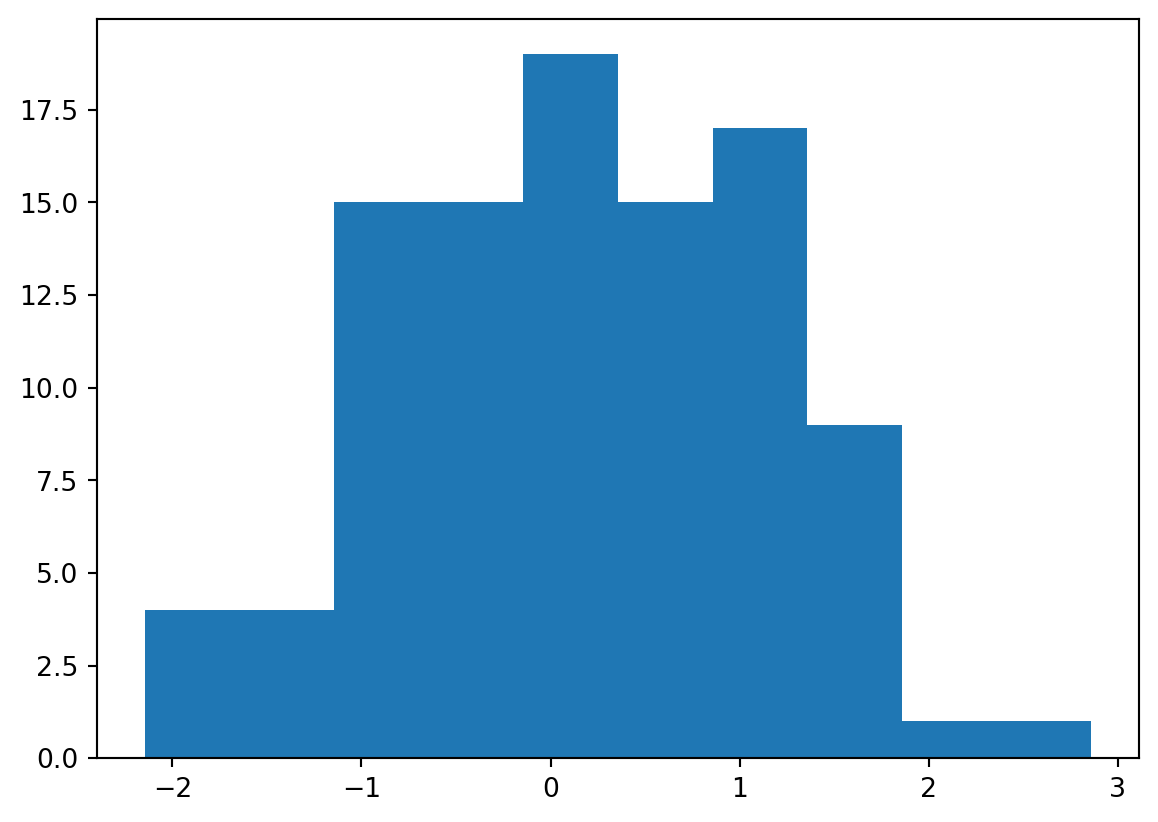
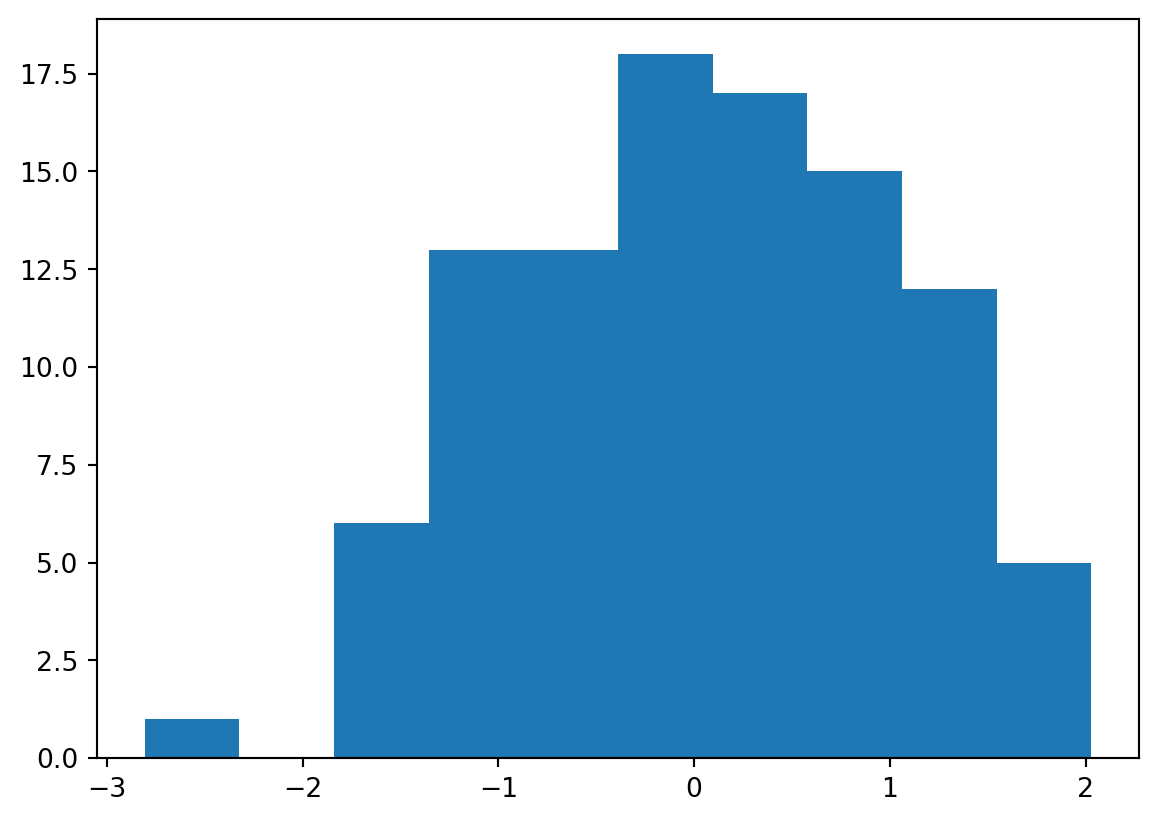
Built site for gh-pages

diff --git a/units/unit1.html b/units/unit1.html
@@ -189,7 +189,7 @@ window.Quarto = {
 <p>This is an example of using qmd as the source document.</p>
 <section id="evaluated-python-code-chunk-with-a-plot" class="level2">
 <h2 class="anchored" data-anchor-id="evaluated-python-code-chunk-with-a-plot">Evaluated Python code chunk, with a plot</h2>
-<div id="502fd630" class="cell" data-execution_count="1">
+<div id="75da5e9b" class="cell" data-execution_count="1">
 <details open="" class="code-fold">
 <summary>Code</summary>
 <div class="sourceCode cell-code" id="cb1"><pre class="sourceCode python code-with-copy"><code class="sourceCode python"><span id="cb1-1"><a href="#cb1-1" aria-hidden="true" tabindex="-1"></a><span class="im">import</span> numpy <span class="im">as</span> np</span>
@@ -207,7 +207,7 @@ window.Quarto = {
 </div>
 </div>
 <div class="cell-output cell-output-display" data-execution_count="1">
-<pre><code>0.10172768013757853</code></pre>
+<pre><code>0.0698624394675778</code></pre>
 </div>
 </div>
 </section>
@@ -260,7 +260,7 @@ Tip with Title
 </div>
 <div id="tabset-1-2" class="tab-pane" role="tabpanel" aria-labelledby="tabset-1-2-tab">
 <p>This code is executed.</p>
-<div id="8a1d602f" class="cell" data-execution_count="2">
+<div id="47ad573c" class="cell" data-execution_count="2">
 <details open="" class="code-fold">
 <summary>Code</summary>
 <div class="sourceCode cell-code" id="cb4"><pre class="sourceCode python code-with-copy"><code class="sourceCode python"><span id="cb4-1"><a href="#cb4-1" aria-hidden="true" tabindex="-1"></a><span class="kw">def</span> fizz_buzz(num):</span>

diff --git a/index.html b/index.html
@@ -323,6 +323,33 @@ Readings week 3
 <p>The readings for the fifth lecture is Chapters 7-9 of <em>A first course in causal inference</em>.</p>
 </div>
 </div>
+<div class="callout callout-style-default callout-note callout-titled" title="Readings week 4">
+<div class="callout-header d-flex align-content-center">
+<div class="callout-icon-container">
+<i class="callout-icon"></i>
+</div>
+<div class="callout-title-container flex-fill">
+Readings week 4
+</div>
+</div>
+<div class="callout-body-container callout-body">
+<p>The reading for the 9/17 lecture is 1. Chapter 3 of <em>Causal inference: what if</em>. 2. Chapter 10 of <em>A first course in causal inference</em>.</p>
+<p>The readings for the 9/19 lecture are 1. Section 2.4 of <em>Causal inference: what if</em>. 2. Chapters 11-12 of <em>A first course in causal inference</em>.</p>
+</div>
+</div>
+<div class="callout callout-style-default callout-note callout-titled" title="Zoom lecture on 9/10">
+<div class="callout-header d-flex align-content-center">
+<div class="callout-icon-container">
+<i class="callout-icon"></i>
+</div>
+<div class="callout-title-container flex-fill">
+Zoom lecture on 9/10
+</div>
+</div>
+<div class="callout-body-container callout-body">
+<p>Reminder that we will be meeting on Zoom for the lecture on September 10th.</p>
+</div>
+</div>
 
 
 

diff --git a/units/unit3.html b/units/unit3.html
@@ -191,7 +191,7 @@ $$
 <p>This is an example of using qmd as the source document with pdf as one target. I’ve taken out the qmd stuff that doesn’t seem to render to pdf.</p>
 <section id="evaluated-python-code-chunk-with-a-plot" class="level2">
 <h2 class="anchored" data-anchor-id="evaluated-python-code-chunk-with-a-plot">Evaluated Python code chunk, with a plot</h2>
-<div id="a6141712" class="cell" data-execution_count="1">
+<div id="bb07bc30" class="cell" data-execution_count="1">
 <details open="" class="code-fold">
 <summary>Code</summary>
 <div class="sourceCode cell-code" id="cb1"><pre class="sourceCode python code-with-copy"><code class="sourceCode python"><span id="cb1-1"><a href="#cb1-1" aria-hidden="true" tabindex="-1"></a><span class="im">import</span> numpy <span class="im">as</span> np</span>
@@ -209,7 +209,7 @@ $$
 </div>
 </div>
 <div class="cell-output cell-output-display" data-execution_count="1">
-<pre><code>0.1694386330285614</code></pre>
+<pre><code>0.06398454312165587</code></pre>
 </div>
 </div>
 </section>
